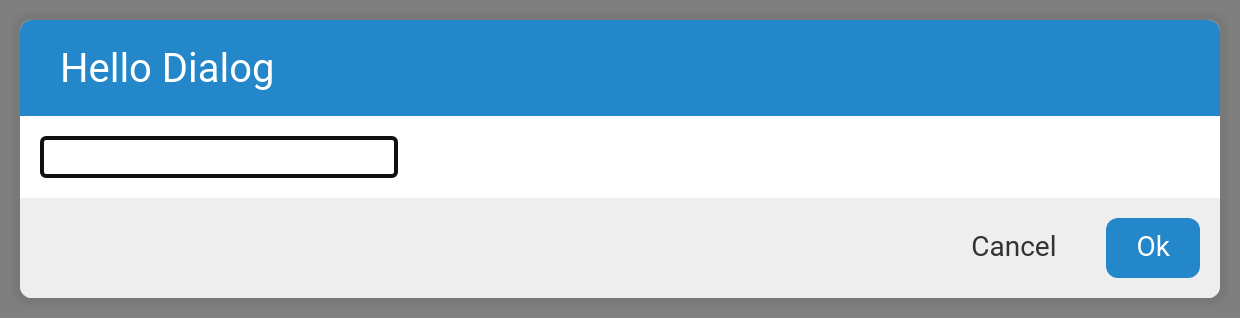
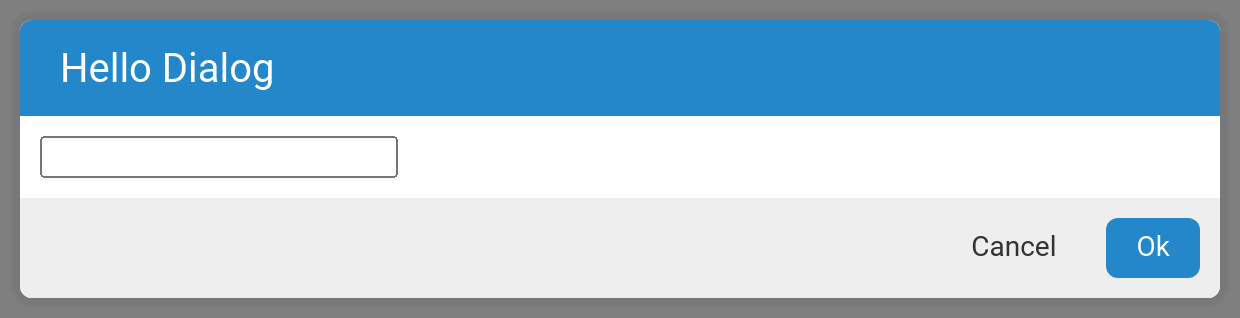
Fix Call AI endpoint and dialog focus (#868)
* Fix Call AI endpoint and dialog focus behavior

- Fix Call AI (split_by_llm) endpoint from /test-assets/select/llms.json to /api/internal/llms.json
- Fix Call AI form data handling: use llm.uuid instead of llm.value from select field
- Remove auto-focus on dialog open to avoid focus during opening animation
- Add test verifying Call AI appears in "Actions that Branch" section
- Update dialog test to reflect no auto-focus behavior

Changed region(s): [[0.0306, 0.4245, 0.3371, 0.566]]

diff --git a/test/temba-node-type-selector.test.ts b/test/temba-node-type-selector.test.ts
@@ -224,7 +224,33 @@ describe('temba-node-type-selector', () => {
     expect(titles).to.include('Wait for Menu');
   });
 
-  it('filters by features - AI feature enables AI splits', async () => {
+  it('shows Call AI in Actions that Branch without requiring AI feature', async () => {
+    const selector = await createSelector();
+    selector.flowType = 'message';
+    selector.features = [];
+    await selector.updateComplete;
+    selector.show('action', { x: 100, y: 100 });
+    await selector.updateComplete;
+
+    // get all node item titles
+    const nodeItems = selector.shadowRoot?.querySelectorAll('.node-item-title');
+    const titles = Array.from(nodeItems || []).map((item) =>
+      item.textContent?.trim()
+    );
+
+    // Call AI should appear in the Actions that Branch section
+    expect(titles).to.include('Call AI');
+
+    // verify it's in the branching section
+    const branchingSection =
+      selector.shadowRoot?.querySelector('.section-branching');
+    const branchingTitles = Array.from(
+      branchingSection?.querySelectorAll('.node-item-title') || []
+    ).map((item) => item.textContent?.trim());
+    expect(branchingTitles).to.include('Call AI');
+  });
+
+  it('filters by features - AI feature does not show Split by AI in split mode', async () => {
     const selector = await createSelector();
     selector.flowType = 'message';
     selector.features = ['ai'];
@@ -257,7 +283,8 @@ describe('temba-node-type-selector', () => {
       item.textContent?.trim()
     );
 
-    // without ai feature, should not have Call AI or Split by AI
+    // Call AI has showAsAction so it doesn't appear in split mode
+    // Split by AI has flowTypes: [] so it doesn't appear anywhere
     expect(titles).to.not.include('Call AI');
     expect(titles).to.not.include('Split by AI');
   });

diff --git a/src/flow/nodes/split_by_llm.ts b/src/flow/nodes/split_by_llm.ts
@@ -2,8 +2,7 @@ import {
   ACTION_GROUPS,
   FormData,
   NodeConfig,
-  FlowTypes,
-  Features
+  FlowTypes
 } from '../types';
 import { CallLLM, Node } from '../../store/flow-definition';
 import { generateUUID, createSuccessFailureRouter } from '../../utils';
@@ -19,7 +18,6 @@ export const split_by_llm: NodeConfig = {
   name: 'Call AI',
   group: ACTION_GROUPS.services,
   flowTypes: [FlowTypes.VOICE, FlowTypes.MESSAGE, FlowTypes.BACKGROUND],
-  features: [Features.AI],
   showAsAction: true,
   render: (node: Node) => {
     const callLlmAction = node.actions?.find(
@@ -40,7 +38,7 @@ export const split_by_llm: NodeConfig = {
       label: 'LLM',
       required: true,
       options: [],
-      endpoint: '/test-assets/select/llms.json',
+      endpoint: '/api/internal/llms.json',
       searchable: true,
       valueKey: 'uuid',
       nameKey: 'name',
@@ -74,9 +72,7 @@ export const split_by_llm: NodeConfig = {
 
     return {
       uuid: node.uuid,
-      llm: callLlmAction?.llm
-        ? [{ value: callLlmAction.llm.uuid, name: callLlmAction.llm.name }]
-        : [],
+      llm: callLlmAction?.llm ? [callLlmAction.llm] : [],
       input: callLlmAction?.input || '@input',
       instructions: callLlmAction?.instructions || ''
     };
@@ -99,7 +95,7 @@ export const split_by_llm: NodeConfig = {
       type: 'call_llm',
       uuid: callLlmUuid,
       llm: llmSelection
-        ? { uuid: llmSelection.value, name: llmSelection.name }
+        ? { uuid: llmSelection.uuid || llmSelection.value, name: llmSelection.name }
         : { uuid: '', name: '' },
       input: formData.input || '@input',
       instructions: formData.instructions || '',

diff --git a/src/flow/nodes/split_by_llm_categorize.ts b/src/flow/nodes/split_by_llm_categorize.ts
@@ -19,7 +19,7 @@ export const split_by_llm_categorize: NodeConfig = {
       label: 'LLM',
       helpText: 'Select the LLM to use for categorization',
       required: true,
-      endpoint: '/test-assets/select/llms.json',
+      endpoint: '/api/internal/llms.json',
       valueKey: 'uuid',
       nameKey: 'name',
       placeholder: 'Select an LLM...'
@@ -115,9 +115,7 @@ export const split_by_llm_categorize: NodeConfig = {
 
     return {
       uuid: node.uuid,
-      llm: callLlmAction?.llm
-        ? [{ value: callLlmAction.llm.uuid, name: callLlmAction.llm.name }]
-        : [],
+      llm: callLlmAction?.llm ? [callLlmAction.llm] : [],
       input: callLlmAction?.input || '@input',
       categories: categories
     };
@@ -145,7 +143,7 @@ export const split_by_llm_categorize: NodeConfig = {
       type: 'call_llm',
       uuid: callLlmUuid,
       llm: llmSelection
-        ? { uuid: llmSelection.value, name: llmSelection.name }
+        ? { uuid: llmSelection.uuid || llmSelection.value, name: llmSelection.name }
         : { uuid: '', name: '' },
       instructions: `@(prompt("categorize", slice(node.categories, 0, -2)))`,
       input: formData.input || '@input',

diff --git a/test/nodes/split_by_llm_categorize.test.ts b/test/nodes/split_by_llm_categorize.test.ts
@@ -263,7 +263,7 @@ describe('split_by_llm_categorize node config', () => {
 
       expect(formData.uuid).to.equal('test-node');
       expect(formData.llm).to.deep.equal([
-        { value: 'llm-123', name: 'Test LLM' }
+        { uuid: 'llm-123', name: 'Test LLM' }
       ]);
       expect(formData.input).to.equal('@input');
       expect(formData.categories).to.deep.equal([
@@ -493,7 +493,9 @@ describe('split_by_llm_categorize node config', () => {
 
       // Should match original data
       expect(recoveredFormData.uuid).to.equal(originalFormData.uuid);
-      expect(recoveredFormData.llm).to.deep.equal(originalFormData.llm);
+      expect(recoveredFormData.llm).to.deep.equal([
+        { uuid: 'llm-uuid-123', name: 'Claude' }
+      ]);
       expect(recoveredFormData.input).to.equal(originalFormData.input);
       expect(recoveredFormData.categories).to.deep.equal(
         originalFormData.categories

diff --git a/test/temba-dialog.test.ts b/test/temba-dialog.test.ts
@@ -85,12 +85,12 @@ describe('temba-dialog', () => {
     expect(body.style.position).to.equal('');
   });
 
-  it('focuses the first text input', async () => {
+  it('does not auto-focus the first text input on open', async () => {
     const dialog: Dialog = await fixture(getDialogHTML());
     await open(dialog);
 
     const input = dialog.querySelector('input');
-    expect(document.activeElement).to.equal(input);
+    expect(document.activeElement).to.not.equal(input);
     await assertScreenshot('dialog/focused', getDialogClip(dialog));
   });
 

diff --git a/test/nodes/split_by_llm.test.ts b/test/nodes/split_by_llm.test.ts
@@ -53,7 +53,7 @@ describe('split_by_llm node config', () => {
       const formData = split_by_llm.toFormData(node);
 
       expect(formData.uuid).to.equal('test-node');
-      expect(formData.llm).to.deep.equal([{ value: 'gpt-4', name: 'GPT 4.1' }]);
+      expect(formData.llm).to.deep.equal([{ uuid: 'gpt-4', name: 'GPT 4.1' }]);
       expect(formData.input).to.equal('@input');
       expect(formData.instructions).to.equal('Translate to French');
     });

diff --git a/src/layout/Dialog.ts b/src/layout/Dialog.ts
@@ -364,10 +364,6 @@ export class Dialog extends ResizeElement {
           .forEach((button: Button) => {
             if (button) button.submitting = false;
           });
-
-        if (!this.noFocus) {
-          this.focusFirstInput();
-        }
       } else {
         window.setTimeout(() => {
           this.ready = false;

diff --git a/demo/components/flow/example.html b/demo/components/flow/example.html
@@ -42,7 +42,7 @@
       workspace="/api/v2/workspace.json"
     >
     </temba-store>
-    <temba-flow-editor id="flow-editor"></temba-flow-editor>
+    <temba-flow-editor id="flow-editor" features='["ai"]'></temba-flow-editor>
 
     <script type="module">
       import '/out-tsc/temba-modules.js';
